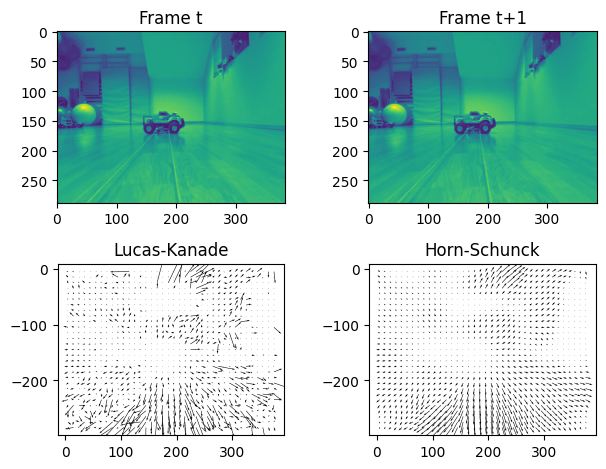
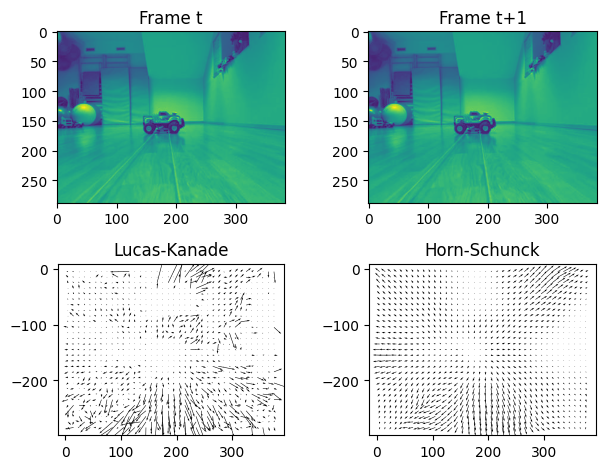
added speedup time comparison

Changed region(s): [[0.6238, 0.5672, 0.9802, 0.9254]]

diff --git a/main.py b/main.py
@@ -91,6 +91,8 @@ def hs_parameter_comparison(img1, img2):
 
 
 def time_comparison(img1, img2):
+    img1 = img1 / 255.0
+    img2 = img2 / 255.0
 
     lkKernelSizes = [3, 10, 15]
     hsIterations = [50, 150, 1000]
@@ -112,6 +114,25 @@ def time_comparison(img1, img2):
         print("Horn Schunck", hsit, execution_time)
 
 
+def lk_speedup_comparison(img1, img2):
+    img1 = img1 / 255.0
+    img2 = img2 / 255.0
+
+    startTime = datetime.datetime.now()
+    horn_schunck(img1, img2, 100000, 0.5)
+    endTime = datetime.datetime.now()
+    time_diff = (endTime - startTime)
+    execution_time = time_diff.total_seconds() * 1000
+
+    startTime2 = datetime.datetime.now()
+    horn_schunck(img1, img2, 100000, 0.5, lkInit=True)
+    endTime2 = datetime.datetime.now()
+    time_diff2 = (endTime2 - startTime2)
+    execution_time2 = time_diff2.total_seconds() * 1000
+
+    print(execution_time, execution_time2)
+
+
 random1 = np.random.rand(200, 200).astype(np.float32)
 random2 = rotate_image(random1.copy(), -1)
 
@@ -129,7 +150,7 @@ waffle2fast = cv2.imread('data/waffle2fast.jpg', cv2.IMREAD_GRAYSCALE).astype(np
 
 # compute_of(random1, random2, 'data/random.png', False)
 # compute_of(waffle1, waffle2, 'data/waffle.png')
-compute_of(col1, col2, 'data/collision.png')
+# compute_of(col1, col2, 'data/collision.png')
 # compute_of(lab1, lab2, 'data/lab.png')
 # compute_of(waffle1fast, waffle2fast, 'data/waffleFast.png')
 #
@@ -138,3 +159,7 @@ compute_of(col1, col2, 'data/collision.png')
 
 # time_comparison(waffle1, waffle2)
 # time_comparison(lab1, lab2)
+
+lk_speedup_comparison(col1, col2)
+lk_speedup_comparison(lab1, lab2)
+lk_speedup_comparison(waffle1, waffle2)

diff --git a/of_methods.py b/of_methods.py
@@ -55,14 +55,15 @@ def lucas_kanade(img1, img2, N):
     return delta_x, delta_y
 
 
-def horn_schunck(img1, img2, n_iters, lmbd):
+def horn_schunck(img1, img2, n_iters, lmbd, lkInit=False):
     Ix, Iy, It = discetize_derivatives(img1, img2, 1, 1)
 
     #  speed by lukas kanade
-    u, v = lucas_kanade(img1, img2, 10)
-
-    # u = np.zeros((Ix.shape[0], Ix.shape[1]))
-    # v = np.zeros((Iy.shape[0], Iy.shape[1]))
+    if lkInit:
+        u, v = lucas_kanade(img1, img2, 10)
+    else:
+        u = np.zeros((Ix.shape[0], Ix.shape[1]))
+        v = np.zeros((Iy.shape[0], Iy.shape[1]))
 
     u_avg = np.ones((Ix.shape[0], Ix.shape[1]))
     v_avg = np.ones((Iy.shape[0], Iy.shape[1]))
@@ -101,6 +102,8 @@ def horn_schunck(img1, img2, n_iters, lmbd):
         v = np.subtract(v_avg, np.multiply(Iy, P))
 
         i = i + 1
+
+    print(i)
 
     return u, v
 
